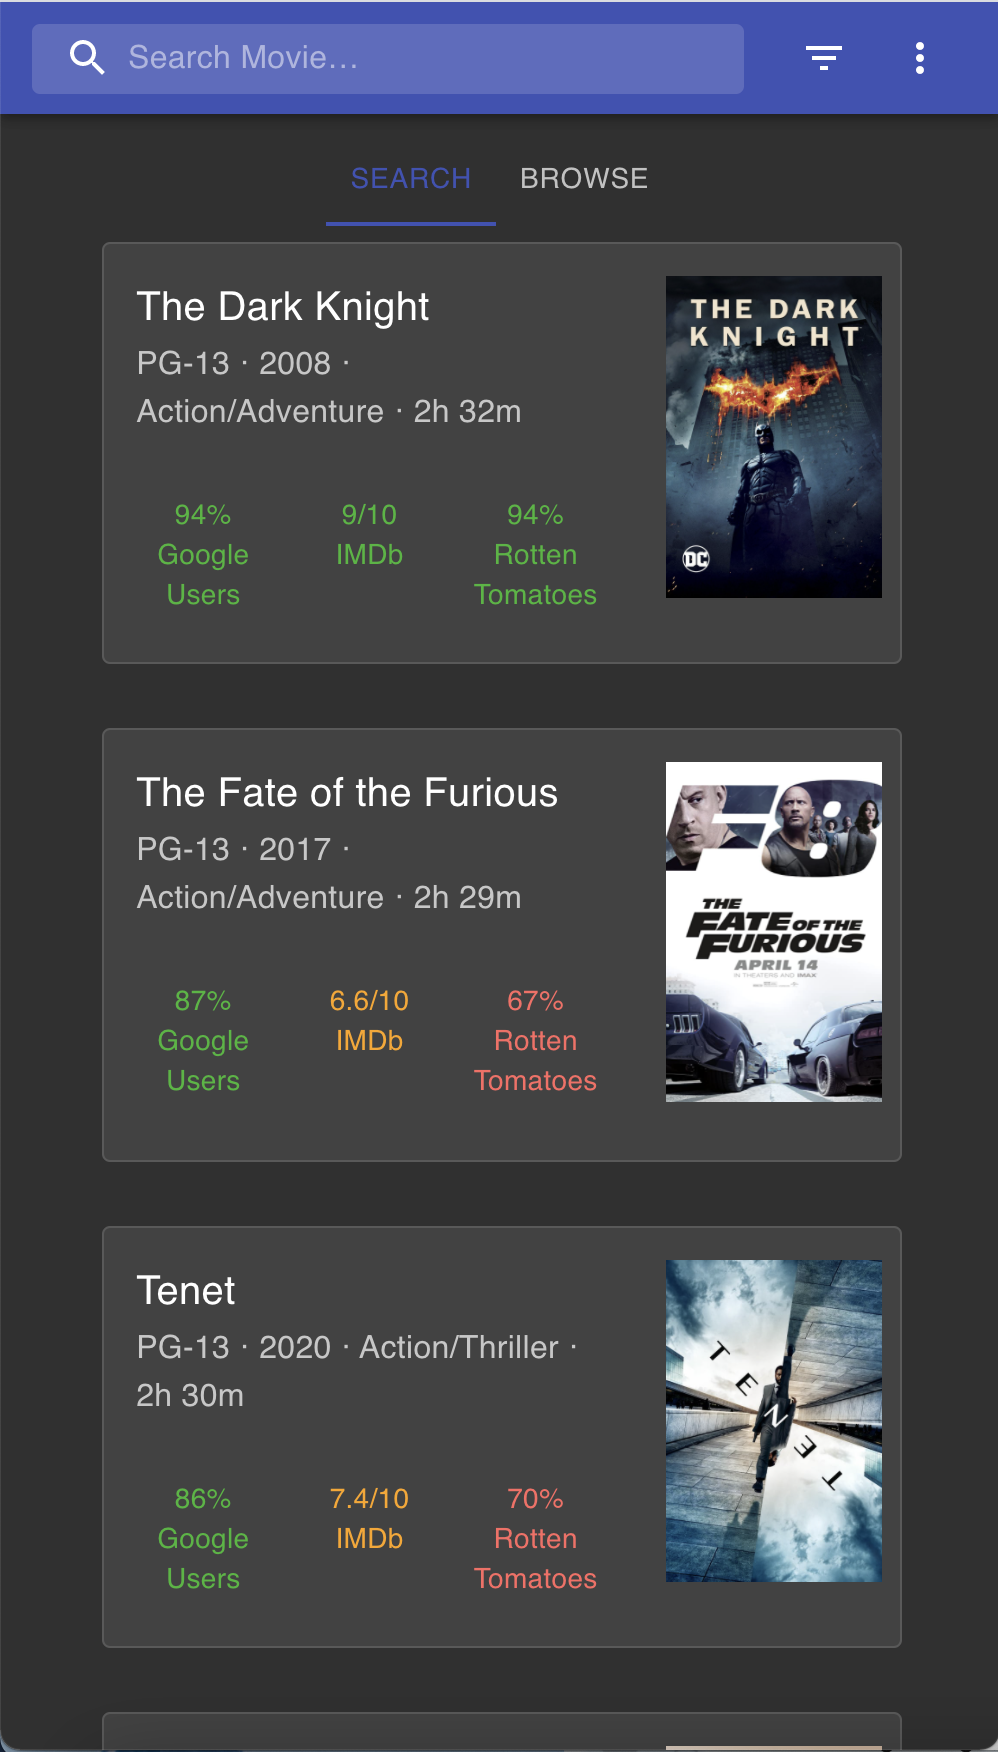
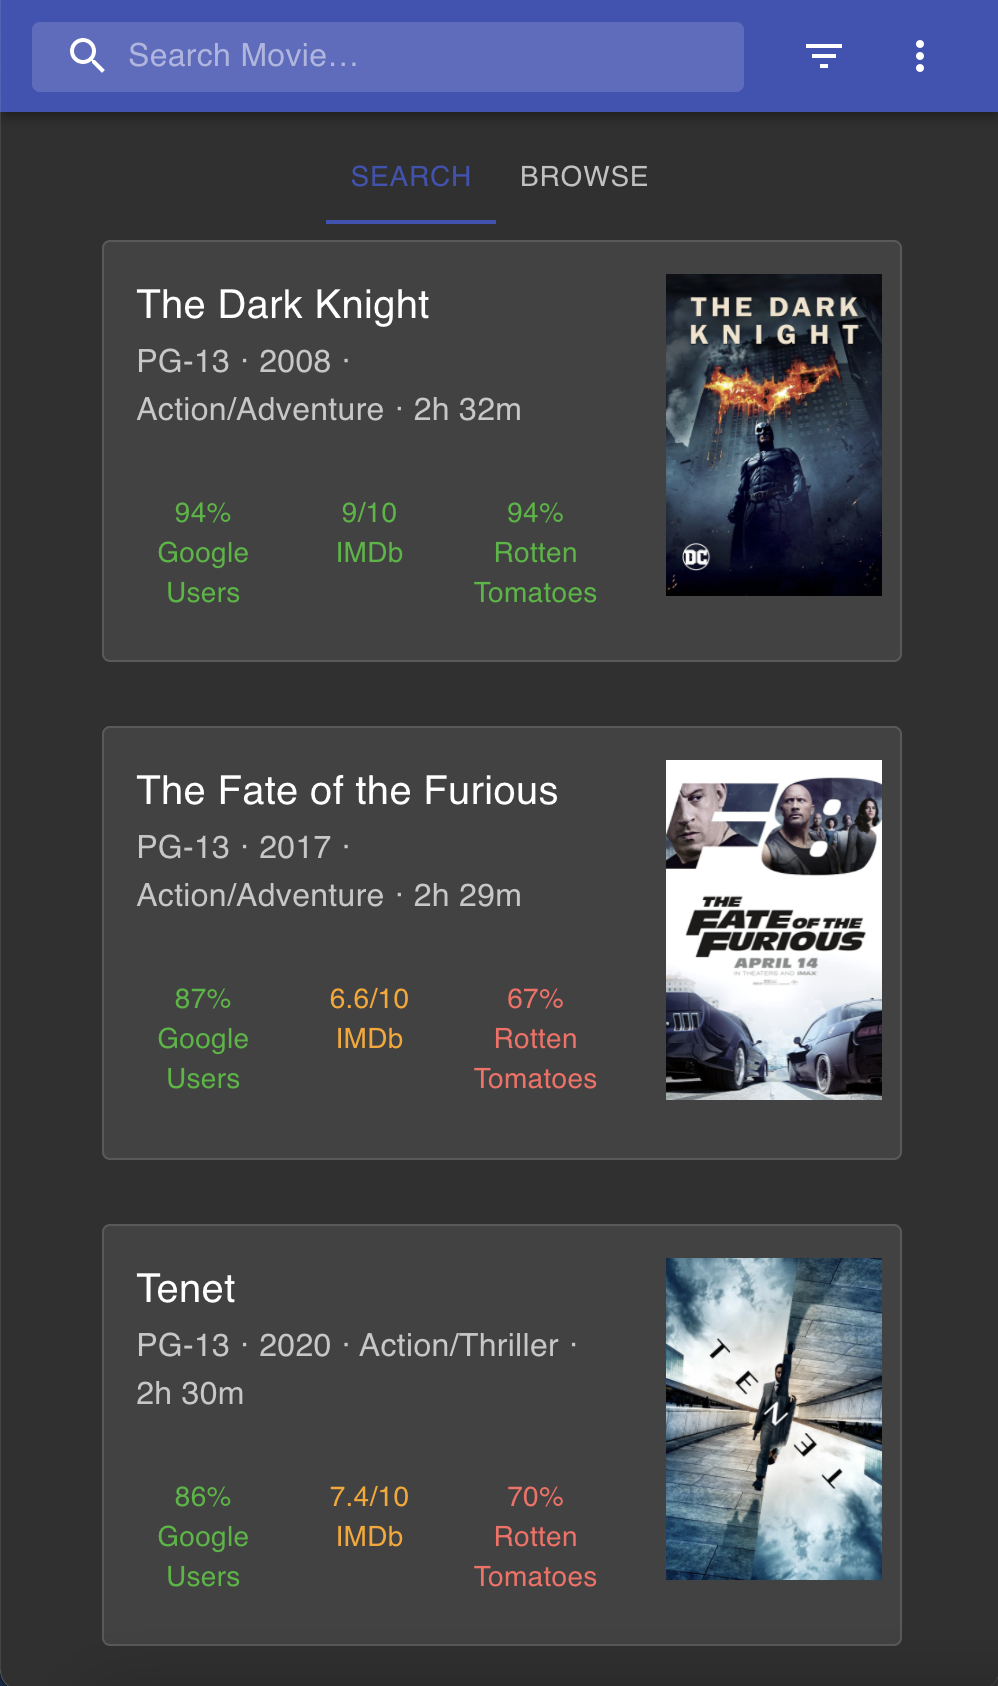
update readme

diff --git a/README.md b/README.md
@@ -11,7 +11,8 @@ Filter through movies using custom filtering and sorting criteria.
 ![Trailer Screen](images/trailer.png)
 Watch trailers and view additional movie information by clicking on a movie.
 
-![Mobile Dashboard](images/mobile.png)
+<img src="images/mobile.png" alt="Mobile Dashboard" width="200" style="display:block; margin:auto"/>
+
 Mobile-compatible and supports dark mode as well.
 
 ## Technologies Used
